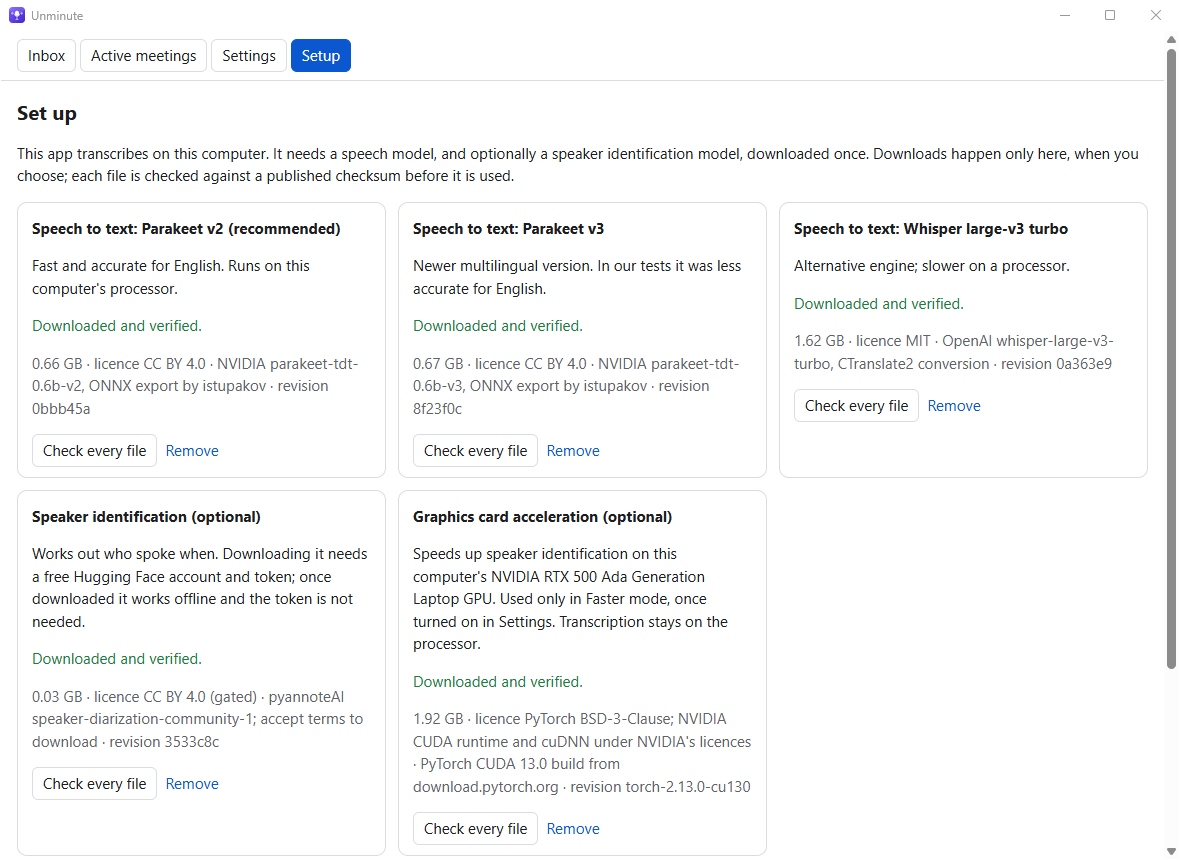
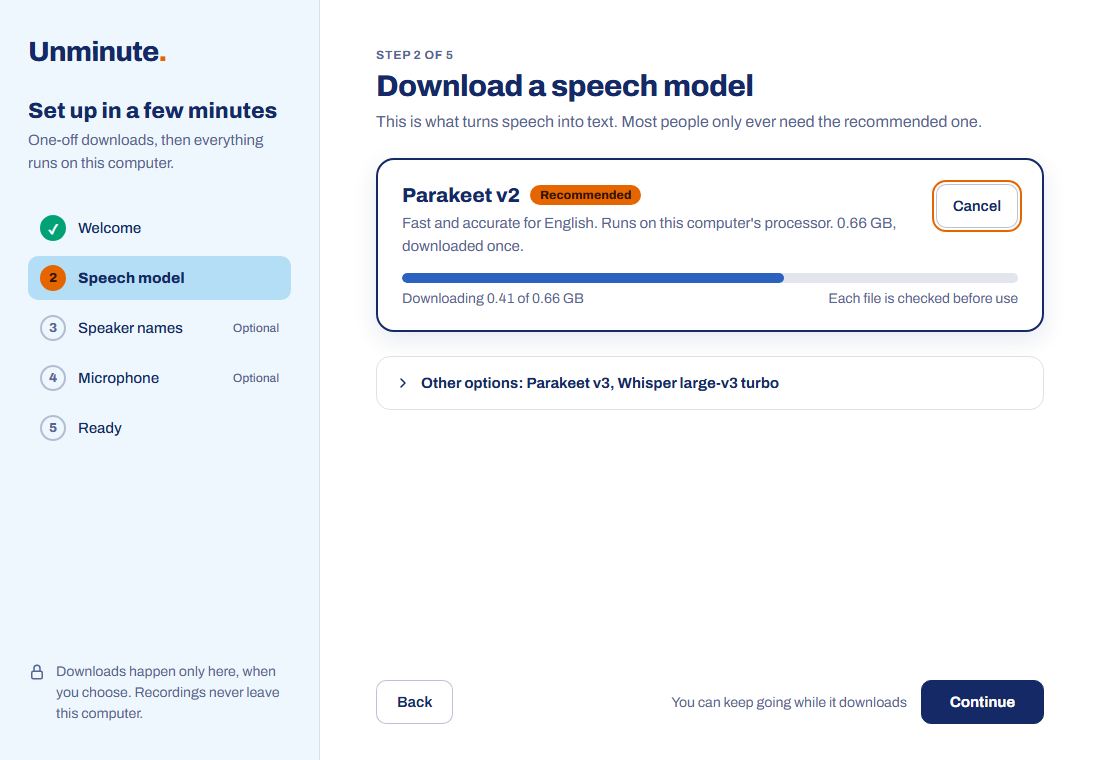
Docs for the redesign: README, user guide, changelog and new screenshots

diff --git a/README.md b/README.md
@@ -4,7 +4,7 @@
 
 Unminute turns meeting recordings into reviewed transcripts on your own Windows computer. You review the transcript against the audio, name the speakers, and hand the text to your organisation's approved AI assistant to draft minutes. Then the app clears its working copies away. Transcription and speaker identification run on your computer, and nothing is uploaded.
 
-![The Inbox, with one meeting in review and one paused](docs/screenshots/workspace-inbox.png)
+![The Meetings page, with meetings ready to review and hand off, and one transcribing](docs/screenshots/workspace-meetings.png)
 
 It was built for a professional-services office where recordings are confidential, laptops are locked down (no administrator rights, Intune managed) and nobody wants to learn a command line. It installs per user, without administrator rights.
 
@@ -16,13 +16,13 @@ Unminute was previously called Meeting Workspace, and this repository Whisper Tr
 
 - **Transcribes on your computer.** Uses NVIDIA Parakeet (recommended for English) or OpenAI Whisper, on the processor. Accepts mp3, m4a, wav, mp4, mov, mkv, flac, ogg, aac, wma, webm and avi.
 - **Works out who said what.** Optional speaker identification with pyannote. You name the speakers after listening to short clips.
-- **Review against the audio.** Select a time to play that passage. Correct text in place. Edits save automatically and can be undone, even after a restart.
-- **Hands off safely.** Copies a prompt and the reviewed transcript for your AI assistant, or saves Markdown. You can leave out passages or redact words for the handoff only.
+- **Review against the audio.** Play the meeting from any passage, with the transcript following along. Correct text in place. Edits save automatically and can be undone, even after a restart.
+- **Hands off safely.** Copies a prompt and the reviewed transcript for your AI assistant, or saves Markdown. For the hand off only, you can replace names with Speaker 1, Speaker 2, leave out passages or redact words.
 - **Cleans up in two confirmed steps.** The audio goes once you confirm the transcript is reviewed. The transcript goes once you confirm the final document is saved elsewhere. Holds stop cleanup for as long as you need.
 - **Fits around your work.** Recordings come from Import, drag and drop, watched folders or the microphone. Quiet mode leaves most of the computer free. Pause and resume are safe, and nothing already transcribed is lost after a crash.
 - **Stays offline.** Models are downloaded once, when you choose, and checked against published checksums. No usage statistics are ever sent.
 
-![A meeting in review: transcript on the left, steps and speakers on the right](docs/screenshots/workspace-meeting.png)
+![A meeting in review: the steps across the top, the transcript on the left and the speakers on the right](docs/screenshots/workspace-meeting.png)
 
 ## Requirements
 
@@ -53,47 +53,53 @@ Unattended and Intune deployment, exit codes, detection rules and signing are co
 
 ### First start: Setup
 
-The first start opens Setup. Each model is a one-off download that the app checks before use.
+The first start opens Setup, five short steps. Each model is a one-off download that the app checks before use.
 
-- **Speech to text: Parakeet v2** is recommended (0.66 GB). Parakeet v3 and Whisper large-v3 turbo are also offered.
-- **Speaker identification** is optional (0.03 GB). Its publisher asks you to accept its terms with a free Hugging Face account and a "Read" token, once. Setup links to each page. The token can be remembered in Windows Credential Manager and removed at any time. Downloaded models keep working without it.
-- **Graphics card acceleration** is optional and offered only on computers with an NVIDIA card. It is a 1.92 GB download of the CUDA build of PyTorch, and is used for speaker identification only.
+1. **Welcome:** how a meeting moves through the app.
+2. **Speech model:** Parakeet v2 is recommended (0.66 GB). Parakeet v3 and Whisper large-v3 turbo are under Other options.
+3. **Speaker names (optional, 0.03 GB):** the speaker identification model's publisher asks you to accept its terms with a free Hugging Face account and a "Read" token, once. Setup links to each page. The token can be remembered in Windows Credential Manager and removed at any time. Downloaded models keep working without it.
+4. **Microphone (optional):** turn on recording and test the microphone.
+5. **Ready:** a summary of what is set up.
 
-You can skip speakers and add them later. Setup also checks, repairs and removes downloaded models.
+You can skip the optional steps and turn them on later in Settings. **Graphics card acceleration** is offered only on computers with an NVIDIA card. It is a 1.92 GB download of the CUDA build of PyTorch, used for speaker identification only, and is in Settings > Manage downloads. That page also checks, repairs and removes downloaded models.
 
-![Setup, with the models downloaded and verified](docs/screenshots/workspace-setup.png)
+![Setup, step 2: downloading the recommended speech model](docs/screenshots/workspace-setup.png)
 
 ## Everyday use
 
 ### Bring in a recording
 
-- **Import recordings…** in the Inbox, or drop audio or video files on the window.
+- **Import a recording** on the Meetings page, or drop audio or video files anywhere on the window.
 - **Watched folders** (Settings) pick up new recordings automatically. See [docs/INTAKE.md](docs/INTAKE.md) for synced and cloud folders.
-- **Record with a microphone** is off by default. Turn it on in Settings > Microphone. Tell everyone present that the meeting is being recorded. Only the microphone is recorded, not sound playing on the computer.
+- **Record a meeting** appears once microphone recording is on (Setup, or Settings > Recording and speakers). Tell everyone present that the meeting is being recorded. Only the microphone is recorded, not sound playing on the computer.
 
-Transcription runs in the background, one meeting at a time. **Active meetings** shows progress, with **Pause** and **Stop now**.
+Transcription runs in the background, one meeting at a time. The Meetings page groups meetings by what they need next: **Needs attention**, **Ready for you**, **Transcribing** and **Cleaning up**. Transcribing meetings show progress, with **Pause** and **Stop now**.
 
-![Active meetings](docs/screenshots/workspace-active.png)
+![Recording a meeting, with the level meter and timer](docs/screenshots/workspace-recording.png)
 
 ### Review and name speakers
 
-Open a meeting to review it.
+Open a meeting to review it. The steps (Transcribe, Review, Hand off, Clean up) run across the top, with the next action beside them.
 
-- Select a time to play that passage. Select text to correct it. Undo edit (Ctrl+Z) reverses changes.
-- Search with Ctrl+F. In a wide window the transcript and the steps panel scroll separately, so the search box and steps stay in view.
-- **Name speakers** plays three short clips for each detected speaker. You can merge two labels that are the same person, or move a passage to another speaker. Names stay with this meeting only.
-- **Transcribe again** with another model keeps your earlier version and its edits.
+- Select a time to play from that passage; the player at the bottom carries on through the meeting. Space plays or pauses, and J and K move between passages.
+- Select text, or press Enter, to correct it. Ctrl+Z undoes the last edit.
+- Search with Ctrl+F. In a wide window the transcript and the side panel scroll separately.
+- **Name speakers** plays short examples for each detected speaker. You can merge two labels that are the same person, or move a passage to another speaker. Names stay with this meeting only.
+- The side panel's tabs show **Speakers**, **Versions** (Transcribe again with another model keeps your earlier version and its edits) and **Holds**.
+- **Help and shortcuts** in the sidebar lists every keyboard shortcut. Press ? to open it.
 
-![Naming speakers from short clips](docs/screenshots/workspace-names.png)
+![Naming speakers from short examples](docs/screenshots/workspace-names.png)
 
 ### Hand off and clean up
 
 Each meeting shows its steps:
 
 1. **Transcript reviewed…** saves the reviewed text and removes the app's copy of the audio. If you allowed it for the watched folder a recording came from, the original there is removed too. Playback and editing end here.
-2. **Hand off…** shows exactly what will be copied: the prompt and transcript, the prompt only, or a Markdown file.
+2. **Hand off…** opens a page that shows exactly what will be copied. Choose a template, then remove details for this hand off only: replace names with Speaker 1, Speaker 2, redact words, or leave out passages, and select **Apply**. Then **Copy prompt and transcript**, **Copy prompt only** or **Save Markdown…**.
 3. **Create the final document** in your assistant, review it yourself, and file it where your organisation keeps such documents.
 4. **Final document saved…** removes the meeting's transcript, edits and speaker names. A minimal receipt (a random number, times and the result) is kept for 30 days.
+
+![Hand off: the template, details to remove and a preview of what will be copied](docs/screenshots/workspace-handoff.png)
 
 Copying or saving never deletes anything by itself, and the app does not clear your clipboard. Cleanup cannot reach copies in synced folders, on a phone or recorder, or anything you shared with another service.
 
@@ -105,9 +111,8 @@ The full walkthrough is in the [user guide](docs/WORKSPACE_GUIDE.md).
 ## Settings
 
 - **Processing:** Quiet (the default) leaves most of the computer free. Faster uses more of it. On battery, automatic work waits unless you allow it.
-- **Speech model:** which model new meetings use.
-- **Microphone:** turns microphone recording on.
-- **Speakers:** speaker identification, and the graphics card for it (Faster mode only).
+- **Speech model:** which model new meetings use, and **Manage downloads** for models and the graphics card component.
+- **Recording and speakers:** microphone recording, naming speakers after transcription, and the graphics card for it (Faster mode only).
 - **Watched folders, Updates, Cleanup receipts.**
 
 ![Settings](docs/screenshots/workspace-settings.png)
@@ -116,7 +121,7 @@ The full walkthrough is in the [user guide](docs/WORKSPACE_GUIDE.md).
 
 - **Transcription and speaker identification never use the network.** While processing, the app refuses its own Python network connections and DNS lookups to anything outside the computer. This guard is not a firewall: native code opening its own sockets would not be caught. For managed devices, an outbound firewall rule is the stronger control.
 - **No usage statistics are sent.** Before its libraries load, the app forces their telemetry switches off: Hugging Face, pyannote's usage metrics and OpenTelemetry. A setting in your environment cannot turn them back on. It also switches off ONNX Runtime's Windows telemetry events in the processes that use it.
-- **Downloads happen only in Setup, when you choose.** Models come from Hugging Face and the optional graphics card component from download.pytorch.org. Each file is checked against a published checksum.
+- **Downloads happen only in Setup or Manage downloads, when you choose.** Models come from Hugging Face and the optional graphics card component from download.pytorch.org. Each file is checked against a published checksum.
 - **The Hugging Face token** is used only for the speaker model download. It is passed to the download process privately, never on its command line or in its environment.
 - **Outside the app's control:** recordings in synced folders such as OneDrive are already in that service, and anything you paste or upload to an AI assistant is handled by its provider under your organisation's account and policies.
 
@@ -144,8 +149,8 @@ Details are in [docs/PACKAGING.md](docs/PACKAGING.md).
 
 | Problem | What to do |
 | --- | --- |
-| A model shows "Damaged or incomplete" | Setup > Repair. The damaged copy is kept aside, not deleted. |
-| Speaker identification did not work | The transcript is still usable. Check the speaker model in Setup, then use Identify again in the meeting. |
+| A model shows "Damaged" | Settings > Manage downloads > Repair. The damaged copy is kept aside, not deleted. |
+| Speaker identification did not work | The transcript is still usable. Check the speaker model in Settings > Manage downloads, then use Identify again in the meeting's Speakers tab. |
 | A watched recording is not imported | Settings > Watched folders lists files still copying, cloud-only files and unreadable files. |
 | Nothing is processing on battery | Plug in, or allow processing on battery in Settings. |
 | The installer says the app is running | Close Unminute and run it again. |
@@ -185,12 +190,12 @@ Both Codex and Claude Code use the shared [agent guidelines](AGENTS.md).
 
 | Path | Purpose |
 | --- | --- |
-| `workspace/` | Unminute: SQLite state, durable chunked processing, managed workers, cleanup and holds, intake, recording, the pywebview shell (`workspace/ui/`) |
+| `workspace/` | Unminute: SQLite state, durable chunked processing, managed workers, cleanup and holds, intake, recording, the pywebview shell (`workspace/ui/`, with Archivo bundled under its OFL licence) |
 | `asr_engines.py` | Shared engine interface for Parakeet and Whisper; model manifests, verified install and repair |
 | `offline_guard.py` | Forces library telemetry off and refuses non-local network access outside deliberate downloads |
 | `packaging/` | Per-user installer and uninstaller for the package |
 | `tools/build_package.py` | Builds the versioned zip with a private CPython 3.12 runtime |
-| `tools/` | Real-engine checks, UI and accessibility checks, benchmarks |
+| `tools/` | Real-engine checks, UI and accessibility checks, the design comparison (`tools/design_check.py`), benchmarks |
 | `tests/` | Unit tests: `python -m unittest discover -s tests -v` |
 | `transcribe_ui.py`, `transcriber_core.py`, `install.ps1` | The earlier app |
 | `CHANGELOG.md` | Release notes, one section per version. The Release workflow reads it. |
@@ -200,6 +205,7 @@ Design and plans:
 - [docs/WORKSPACE_PLAN.md](docs/WORKSPACE_PLAN.md): the target product.
 - [docs/IMPLEMENTATION_PLAN.md](docs/IMPLEMENTATION_PLAN.md): coding and integration sequence.
 - [docs/WORKSPACE_DESIGN.md](docs/WORKSPACE_DESIGN.md): the durable processing core.
+- [docs/design/boards/](docs/design/boards/): the approved UI design boards that `tools/design_check.py` compares the app against.
 - [docs/WEBVIEW_TRIAL.md](docs/WEBVIEW_TRIAL.md): the desktop shell trial and its security findings.
 - [docs/RELEASING.md](docs/RELEASING.md) and [docs/VALIDATION_RUNBOOK.md](docs/VALIDATION_RUNBOOK.md): release process and hands-on checks.
 

diff --git a/docs/WORKSPACE_GUIDE.md b/docs/WORKSPACE_GUIDE.md
@@ -4,7 +4,7 @@ Unminute turns a meeting recording into a reviewed transcript on your own comput
 
 It is a temporary workspace, not an archive. Your final documents live wherever your organisation files them.
 
-This guide covers the packaged workspace. The earlier source-installed app (`install.cmd` at the top of the repository) still works and is described in [EARLIER_APP.md](EARLIER_APP.md). The two keep separate workspaces and outputs. They share the downloaded models: if a shared model fails verification, Setup's Repair downloads a fresh copy and keeps the damaged one aside. Nothing the earlier app created is ever deleted.
+This guide covers the packaged workspace. The earlier source-installed app (`install.cmd` at the top of the repository) still works and is described in [EARLIER_APP.md](EARLIER_APP.md). The two keep separate workspaces and outputs. They share the downloaded models: if a shared model fails verification, Repair (Settings > Manage downloads) downloads a fresh copy and keeps the damaged one aside. Nothing the earlier app created is ever deleted.
 
 ## What stays on your computer, and what does not
 
@@ -20,20 +20,21 @@ This guide covers the packaged workspace. The earlier source-installed app (`ins
 ## Getting started
 
 1. **Install.** Your IT team may install the app for you. Otherwise, run `install.cmd` from the package. It installs for your Windows account only and needs no administrator rights.
-2. **Set up.** On first start, Setup offers the models:
-   - **Speech to text: Parakeet v2** is recommended (about 0.7 GB).
-   - **Speaker identification** is optional. It needs a free Hugging Face account and token, once. Follow the steps on the Setup screen. The token is remembered in Windows Credential Manager and you can remove it at any time. Already-downloaded models keep working without it.
-   - You can skip speakers and add them later from Setup.
-3. **Import a recording.** In Inbox, choose **Import recordings…** or drop audio or video files on the window. You can also watch a folder (Settings > Watched folders, see [INTAKE.md](INTAKE.md)).
+2. **Set up.** On first start, Setup takes you through five steps:
+   - **Speech model:** Parakeet v2 is recommended (about 0.7 GB). Other models are under Other options.
+   - **Speaker names** (optional): speaker identification needs a free Hugging Face account and token, once. Follow the steps on the screen. The token can be remembered in Windows Credential Manager and you can remove it at any time. Already-downloaded models keep working without it.
+   - **Microphone** (optional): turn on recording and test the microphone.
+   - You can skip the optional steps and turn them on later in Settings. Settings > **Manage downloads** adds or repairs models later.
+3. **Import a recording.** On the Meetings page, choose **Import a recording** or drop audio or video files anywhere on the window. You can also watch a folder (Settings > Watched folders, see [INTAKE.md](INTAKE.md)).
 
 ## Recording with a microphone
 
-Microphone recording is off by default. To turn it on, open Settings > Microphone. The Inbox then shows a **Record with a microphone** panel.
+Microphone recording is off until you turn it on, in Setup or in Settings > Recording and speakers. The Meetings page then shows **Record a meeting**, with the microphone in use and **Change or test** beneath it.
 
-1. **Choose and test the microphone.** Pick one from the list. **Test microphone** listens for 3 seconds and shows the level; nothing is kept.
+1. **Choose and test the microphone.** **Change or test** lists the microphones. **Test microphone** listens for 3 seconds and shows the level; nothing is kept.
 2. **Tell everyone present that the meeting is being recorded.**
-3. **Start recording.** The meter shows the input level and the timer the length. **Pause** and **Resume** leave a gap that is not recorded.
-4. **Stop and save.** The recording becomes a meeting in the Inbox and is transcribed like an imported file. Review, holds and cleanup work the same way.
+3. **Start recording.** The recording card shows the input level and the length. **Pause** and **Resume** leave a gap that is not recorded.
+4. **Stop and save.** The recording becomes a meeting and is transcribed like an imported file. Review, holds and cleanup work the same way.
 
 How it handles problems:
 
@@ -50,12 +51,14 @@ How it handles problems:
   - **Quiet** (the default) leaves most of the computer free. **Faster** uses more of it.
   - On battery, automatic work waits unless you allow it in Settings.
   - **Pause** stops at the next safe point. **Stop now** stops at once; the part in progress is redone later and nothing already transcribed is lost.
-- **Review.** Open the meeting from Active meetings.
-  - Select a time to play that passage.
-  - Select text to correct it. Edits save automatically, and **Undo edit** (Ctrl+Z) reverses them, even after a restart.
+- **Find your meetings.** The Meetings page groups them by what they need next: **Needs attention**, **Ready for you**, **Transcribing** and **Cleaning up**. The number beside Meetings in the sidebar counts the meetings waiting for you.
+- **Review.** Select **Review** on a meeting. Its steps (Transcribe, Review, Hand off, Clean up) run across the top, with the next action beside them.
+  - Select a time to play from that passage. The player at the bottom carries on through the meeting and the transcript follows along. Space plays or pauses; J and K move between passages.
+  - Select text, or press Enter, to correct it. Edits save automatically, and Ctrl+Z reverses them, even after a restart.
   - Search with Ctrl+F.
-- **Name speakers.** **Name speakers** plays three short clips for each detected speaker so you can name them. You can merge two labels that are the same person, or move a single passage to another speaker. Names stay with this meeting only.
-- **Transcribe again.** **Transcribe again** with another model keeps your earlier version and its edits. You can still open them read-only.
+- **Name speakers.** **Name speakers** asks "Who's speaking?" and plays short examples for each detected speaker so you can name them. You can merge two labels that are the same person, or move a single passage to another speaker. Names stay with this meeting only.
+- **Transcribe again.** The **Versions** tab can transcribe again with another model. Your earlier version and its edits are kept, and you can still open them read-only.
+- **Shortcuts.** **Help and shortcuts** in the sidebar lists them all. Press ? anywhere to open it.
 
 ## Handing off and cleaning up
 
@@ -68,9 +71,9 @@ Each meeting shows its steps:
    - The app then removes its own copy of the audio. It also removes the original recording, but only if you allowed that for the watched folder it came from.
    - Playback and editing are no longer available after this step.
 2. **Hand off.**
-   - **Hand off…** shows exactly what will be copied, with three ways out: **Copy prompt and transcript**, **Copy prompt only**, and **Save Markdown**.
-   - The templates ask the assistant to keep decisions separate from suggestions, not to invent owners or dates, and to flag anything uncertain.
-   - You can leave out passages or redact words for this handoff only.
+   - **Hand off…** opens a page that shows exactly what will be copied, with three ways out: **Copy prompt and transcript**, **Copy prompt only**, and **Save Markdown…**.
+   - The templates ask the assistant to keep decisions separate from suggestions, not to invent owners or dates, and to flag anything uncertain. **Edit template** and **New template** let you adjust them.
+   - For this hand off only, you can replace names with Speaker 1, Speaker 2, redact words, or leave out passages. Select **Apply** to update the preview; copying waits until changes are applied.
    - Long transcripts are never cut short. The app suggests saving the file and attaching it instead.
 3. **Create the final document** in your assistant, review it yourself, and file it where your organisation keeps such documents.
 4. **Confirm the final document is saved.** The app then removes the meeting's transcript working content: text, edits, speakers and versions. A minimal receipt (a random number, times and the result) is kept for 30 days.
@@ -88,7 +91,7 @@ Ordinary deletion is also not forensic erasure of the disk.
 
 ## Keeping material (holds)
 
-Anyone can **hold** a meeting's audio, transcript or everything, with a reason. A hold:
+Anyone can **hold** a meeting's audio, transcript or everything, with a reason, from the meeting's **Holds** tab. A hold:
 
 - stops the matching cleanup until it is released;
 - never expires by itself;
@@ -96,7 +99,7 @@ Anyone can **hold** a meeting's audio, transcript or everything, with a reason. 
 
 Releasing a hold deletes nothing by itself. The cleanup it was blocking waits for you to confirm it again.
 
-Ordinary unfinished work shows its age and next step in Active meetings. There are no scheduled reminders.
+Ordinary unfinished work shows its age and next step on the Meetings page. There are no scheduled reminders.
 
 ## Updates
 
@@ -113,15 +116,15 @@ The installer explains what it is waiting for, and so does Settings > Updates in
 
 | Problem | What to do |
 | --- | --- |
-| A model shows "Damaged or incomplete" | Setup > **Repair**. The damaged copy is kept aside, not deleted. **Check every file** re-checks a model that looks ready. |
-| Speaker identification did not work | The transcript is still usable. Check the speaker model in Setup, then use **Identify again** in the meeting. |
+| A model shows "Damaged" | Settings > **Manage downloads** > **Repair**. The damaged copy is kept aside, not deleted. **Check every file** re-checks a model that looks ready. |
+| Speaker identification did not work | The transcript is still usable. Check the speaker model in Settings > **Manage downloads**, then use **Identify again…** in the meeting's Speakers tab. |
 | A watched recording is not imported | Look at the folder in Settings > Watched folders. It shows files waiting for copying to finish, cloud-only files and unreadable files. |
 | The app says the computer is on battery | Plug in, or allow processing on battery in Settings. |
 | An update is waiting | Settings > Updates lists what it is waiting for. |
 
 For IT support:
 
-- `runtime\python.exe -m workspace --self-test` in the installed version folder imports every dependency and confirms the network block. It does not check models: use Setup for those.
+- `runtime\python.exe -m workspace --self-test` in the installed version folder imports every dependency and confirms the network block. It does not check models: use Settings > Manage downloads for those.
 - `--status` prints counts only (meetings, holds, pending cleanup), never content.
 
 Deployment, detection and signing are covered in [PACKAGING.md](PACKAGING.md).
@@ -135,7 +138,7 @@ These configurations have been tested:
 - **Speech models:** Parakeet v2 (recommended) was tested in the workspace. Parakeet v3 and Whisper large-v3 turbo were tested in the earlier app's engine only; in that comparison Parakeet v3 dropped speech on some clips.
 - **Speaker identification:** pyannote community-1.
 
-**Graphics card (optional, speaker identification only).** On a computer with an NVIDIA card, Setup offers "Graphics card acceleration". This is a one-time 1.92 GB download of the CUDA build of PyTorch from the PyTorch download site, checked against published checksums. Once it is downloaded, turn on Settings > Speakers > "Use the graphics card for speaker identification".
+**Graphics card (optional, speaker identification only).** On a computer with an NVIDIA card, Settings > Manage downloads offers "Graphics card acceleration". This is a one-time 1.92 GB download of the CUDA build of PyTorch from the PyTorch download site, checked against published checksums. Once it is downloaded, turn on Settings > Recording and speakers > "Use the graphics card".
 
 - **When it is used:** only in Faster mode. Transcription always runs on the processor.
 - **What it needs:** an NVIDIA driver from version 580. Nothing else is installed on the computer and drivers are never changed.

diff --git a/CHANGELOG.md b/CHANGELOG.md
@@ -5,6 +5,17 @@ for the version being released, so keep one `## vX.Y.Z` heading per version.
 
 ## Unreleased
 
+- **New look, in Unlimit colours.** Unminute is redesigned throughout, with the Archivo typeface bundled, a light sidebar, dark blue buttons and orange kept for Record. Dark mode follows Windows. The app icon is now dark blue and orange.
+- **One Meetings page.** The Inbox and Active meetings are merged into one page, grouped by what each meeting needs next: Needs attention, Ready for you, Transcribing and Cleaning up. Rows show the length, the number of speakers and the next action. Record a meeting and Import a recording sit at the top, and the sidebar shows how many meetings are waiting for you.
+- **Meeting view.** The four steps run across the top with the next action beside them. Speakers, Versions and Holds are tabs in the side panel.
+- **Continuous playback.** The player plays on through the meeting from any passage, with the transcript following along. Space plays or pauses, and J and K move between passages.
+- **Who's speaking?** Naming speakers shows each speaker as a card with short examples to play.
+- **Hand off page.** Hand off is now a page with the template, the details to remove and a live preview. New: **Replace names with Speaker 1, Speaker 2** for that hand off only, alongside redaction and leaving out passages. Changes are applied before anything can be copied.
+- **Setup in five steps**, with an optional microphone step. Models and the graphics card component moved to Settings > Manage downloads.
+- **Settings** regrouped into Processing, Speech model, Recording and speakers, Watched folders, Updates and Cleanup receipts.
+- **Help and shortcuts** page, opened from the sidebar or with ?.
+- The backend now reports each meeting's length, speaker count and model, and speaker summaries include speaking time.
+
 ## v0.3.0
 
 Unminute: the app is renamed. Install: download `Unminute-0.3.0.zip` and its `.sha256` file, then follow the README or docs/PACKAGING.md. An installed v0.2.x updates and keeps your workspace; uninstalling the old version first and installing this one also keeps your meetings and models, because the uninstaller never removes them. The known limitations listed for v0.2.0 and v0.2.1 still apply.
